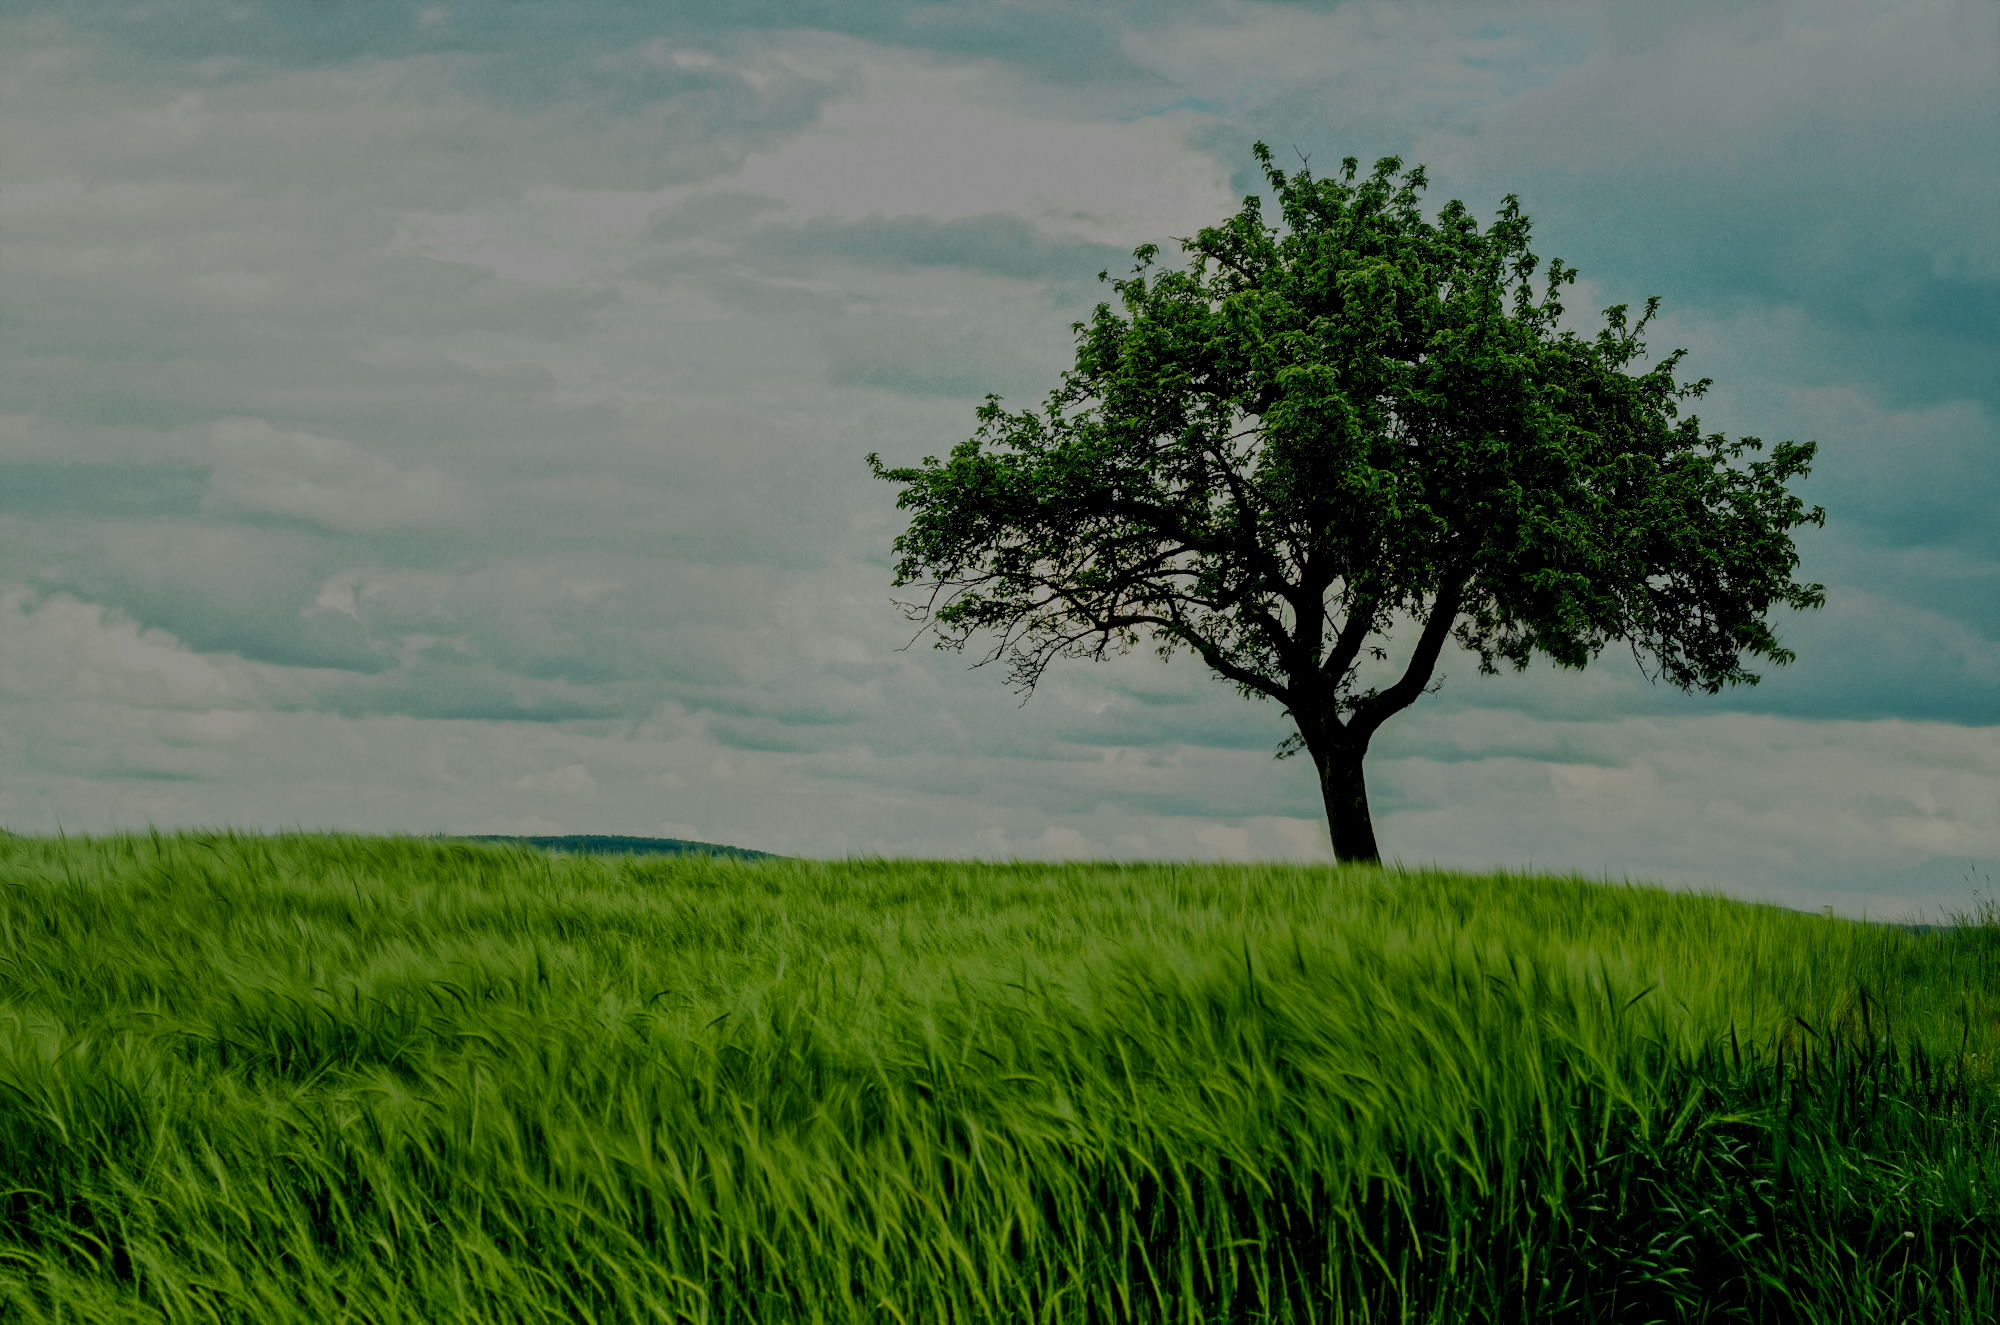
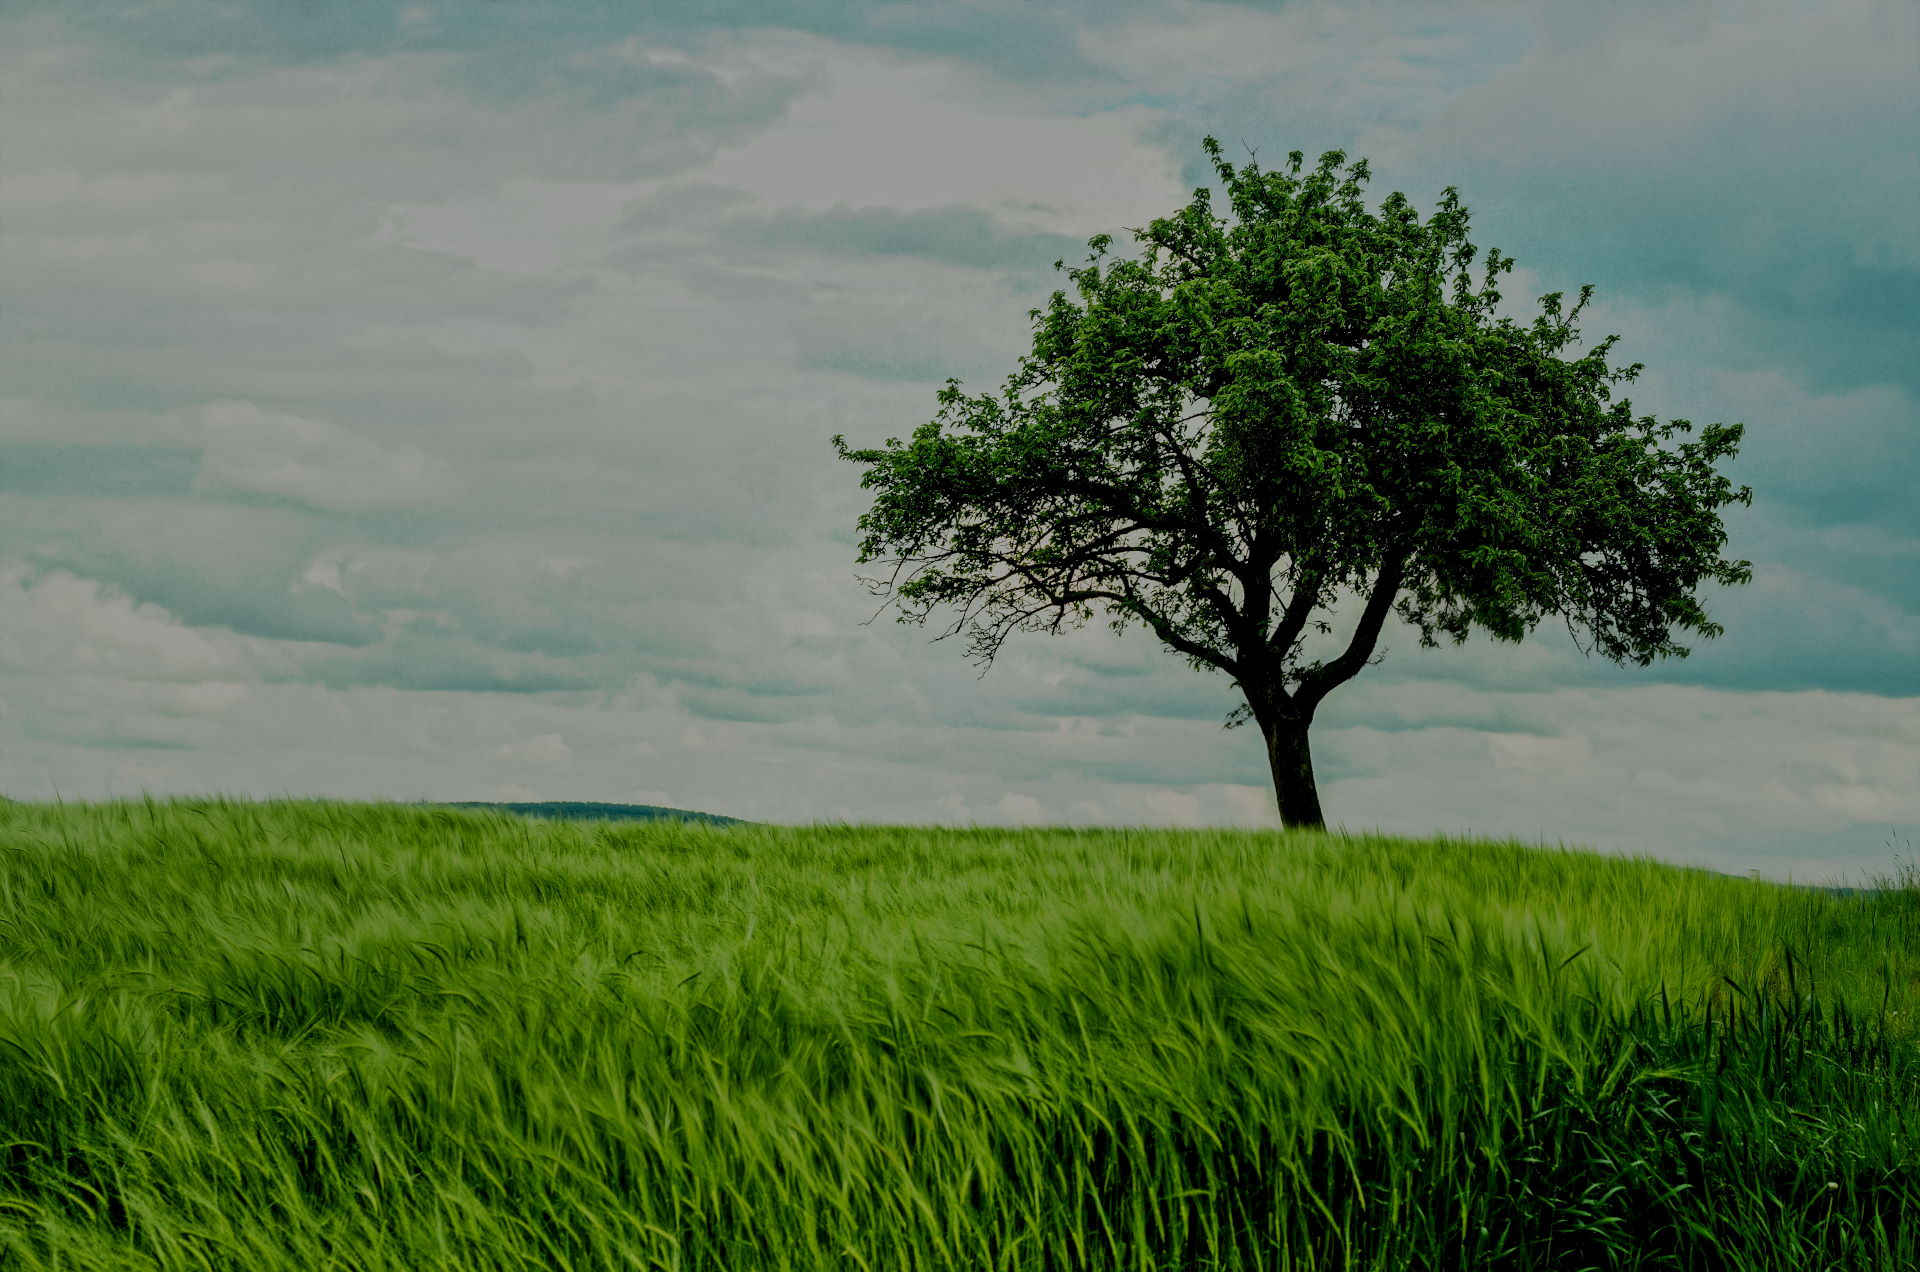
Cards and parallax

Changed region(s): [[0.4375, 0.1226, 0.9062, 0.5212], [0.625, 0.4906, 0.6562, 0.5212]]

diff --git a/src/HomepageLayout.js b/src/HomepageLayout.js
@@ -14,6 +14,7 @@ import {
 import EpisodeBox from "./EpisodeBox";
 import Mailchimp from "./mailChimp";
 import FeedReader from "./services/feedReader";
+import { Parallax } from 'react-parallax';
 
 // Heads up!
 // We using React Static to prerender our docs with server side rendering, this is a quite simple solution.
@@ -178,19 +179,29 @@ class DesktopContainer extends Component {
                     onBottomPassed={this.showFixedMenu}
                     onBottomPassedReverse={this.hideFixedMenu}
                 >
-                    <Segment
+                     <Parallax
+            bgImage={'../img/tree-headline.jpg'}
+            bgImageAlt="the cat"
+            bgImageStyle={{
+                height: 'auto'
+                // padding: '50vh 30vw',
+                // background: 'url(../img/tree-headline.jpg)',
+                // backgroundSize: 'cover'
+            }}
+            strength={1000}
+            blur={{ min: -15, max: 15 }}
+        >
+             <Segment
                         inverted
                         textAlign="center"
                         style={{
                             minHeight: 700,
                             padding: "0em 0em",
-                            background: `url("img/tree-headline.jpg")`,
-
-                            backgroundSize: "cover"
+                            backgroundColor: 'transparent'
                         }}
                         vertical
                     >
-                        <Menu
+                        <Menu 
                             size="large"
                             style={{ borderWidth: 0, backgroundColor: "#FFFFFF88" }}
                         >
@@ -248,6 +259,8 @@ class DesktopContainer extends Component {
                         </Menu>
                         <HomepageHeading />
                     </Segment>
+        </Parallax>
+                   
                 </Visibility>
 
                 {children}
@@ -296,14 +309,27 @@ class MobileContainer extends Component {
                 </Sidebar>
 
                 <Sidebar.Pusher dimmed={sidebarOpened}>
+                <Parallax
+            bgImage={'../img/tree-headline.jpg'}
+            bgImageAlt="the cat"
+            bgImageStyle={{
+                // padding: '50vh 30vw',
+                // background: 'url(../img/tree-headline.jpg)',
+                // backgroundSize: 'cover'
+                height:'auto'
+            }}
+            strength={1000}
+            blur={{ min: -15, max: 15 }}
+        >
                     <Segment
                         inverted
                         textAlign="center"
                         style={{
-                            minHeight: 350,
+                            minHeight: '350',
                             padding: "1em 0em",
-                            background: `url("img/tree-headline.jpg")`,
-                            backgroundSize: "cover"
+                            backgroundColor: 'transparent'
+                            //background: `url("img/tree-headline.jpg")`,
+                            //backgroundSize: "cover"
                         }}
                         vertical
                     >
@@ -316,6 +342,7 @@ class MobileContainer extends Component {
                         </Container>
                         <HomepageHeading mobile />
                     </Segment>
+                    </Parallax>
 
                     {children}
                 </Sidebar.Pusher>

diff --git a/public/index.html b/public/index.html
@@ -7,6 +7,29 @@
   <meta name="viewport" content="width=device-width, initial-scale=1" />
   <meta name="theme-color" content="#000000" />
   <meta name="description" content="Web site created using create-react-app" />
+
+
+<!-- Search Engine -->
+<meta name="description" content="Podcast o analizowaniu tego co dookoła nas i projektowaniu udanego życia.">
+<meta name="image" content="https://zyciowyarchitekt.pl/img/tree-headline.jpg">
+<!-- Schema.org for Google -->
+<meta itemprop="name" content="Życiowy architekt">
+<meta itemprop="description" content="Podcast o analizowaniu tego co dookoła nas i projektowaniu udanego życia.">
+<meta itemprop="image" content="https://zyciowyarchitekt.pl/img/tree-headline.jpg">
+<!-- Twitter -->
+<meta name="twitter:card" content="summary">
+<meta name="twitter:title" content="Życiowy architekt">
+<meta name="twitter:description" content="Podcast o analizowaniu tego co dookoła nas i projektowaniu udanego życia.">
+<meta name="twitter:creator" content="@suvrocDev">
+<meta name="twitter:image:src" content="https://zyciowyarchitekt.pl/img/tree-headline.jpg">
+<!-- Open Graph general (Facebook, Pinterest & Google+) -->
+<meta name="og:title" content="Życiowy architekt">
+<meta name="og:description" content="Podcast o analizowaniu tego co dookoła nas i projektowaniu udanego życia.">
+<meta name="og:image" content="https://zyciowyarchitekt.pl/img/tree-headline.jpg">
+<meta name="og:url" content="https://zyciowyarchitekt.pl">
+<meta name="og:site_name" content="Życiowy architekt">
+<meta name="og:locale" content="pl_PL">
+<meta name="og:type" content="website">
   
 
 <link rel="apple-touch-icon" sizes="180x180" href="/apple-touch-icon.png">
